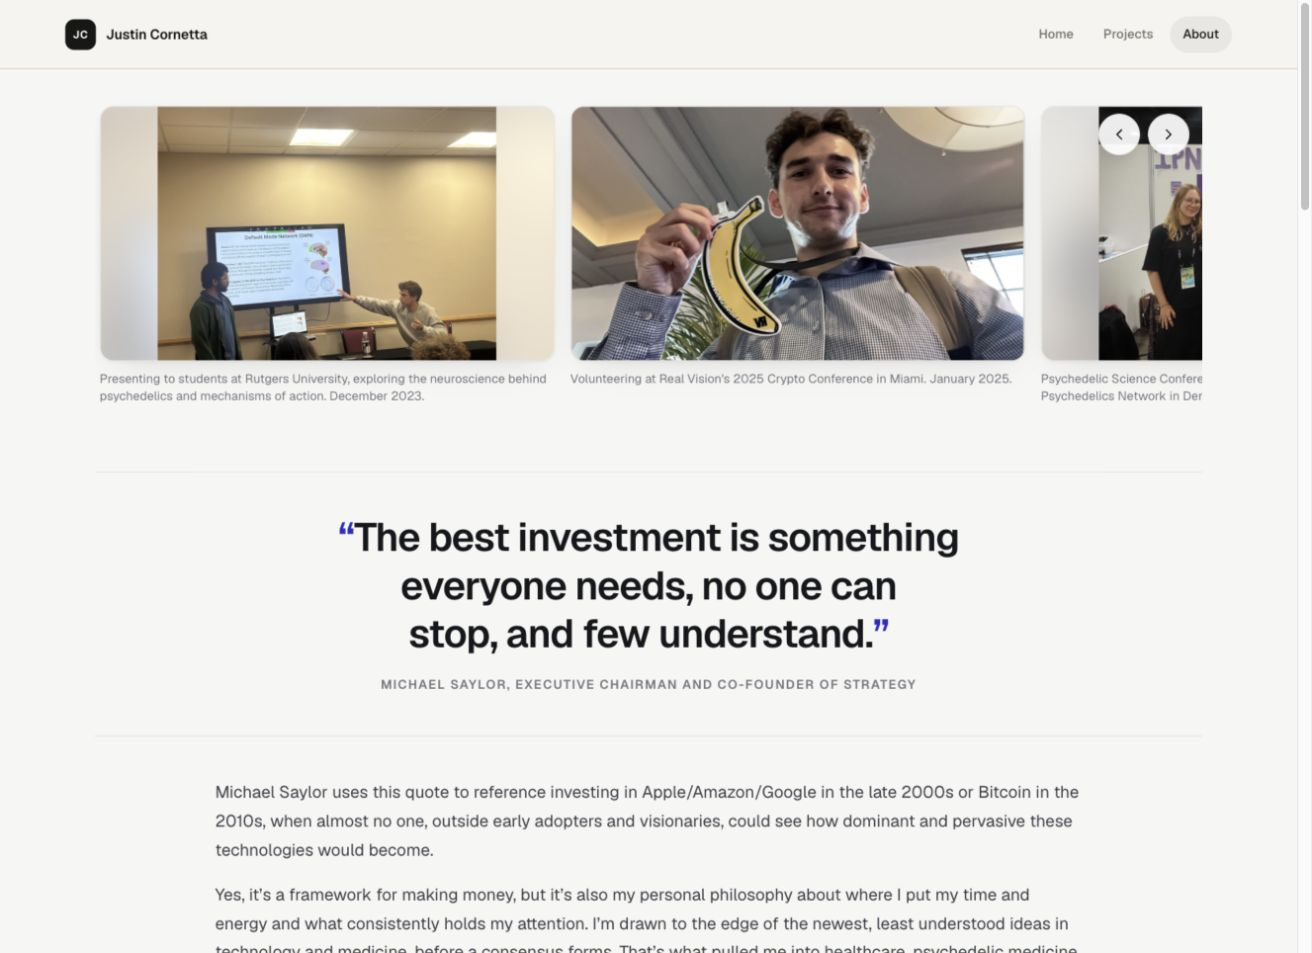
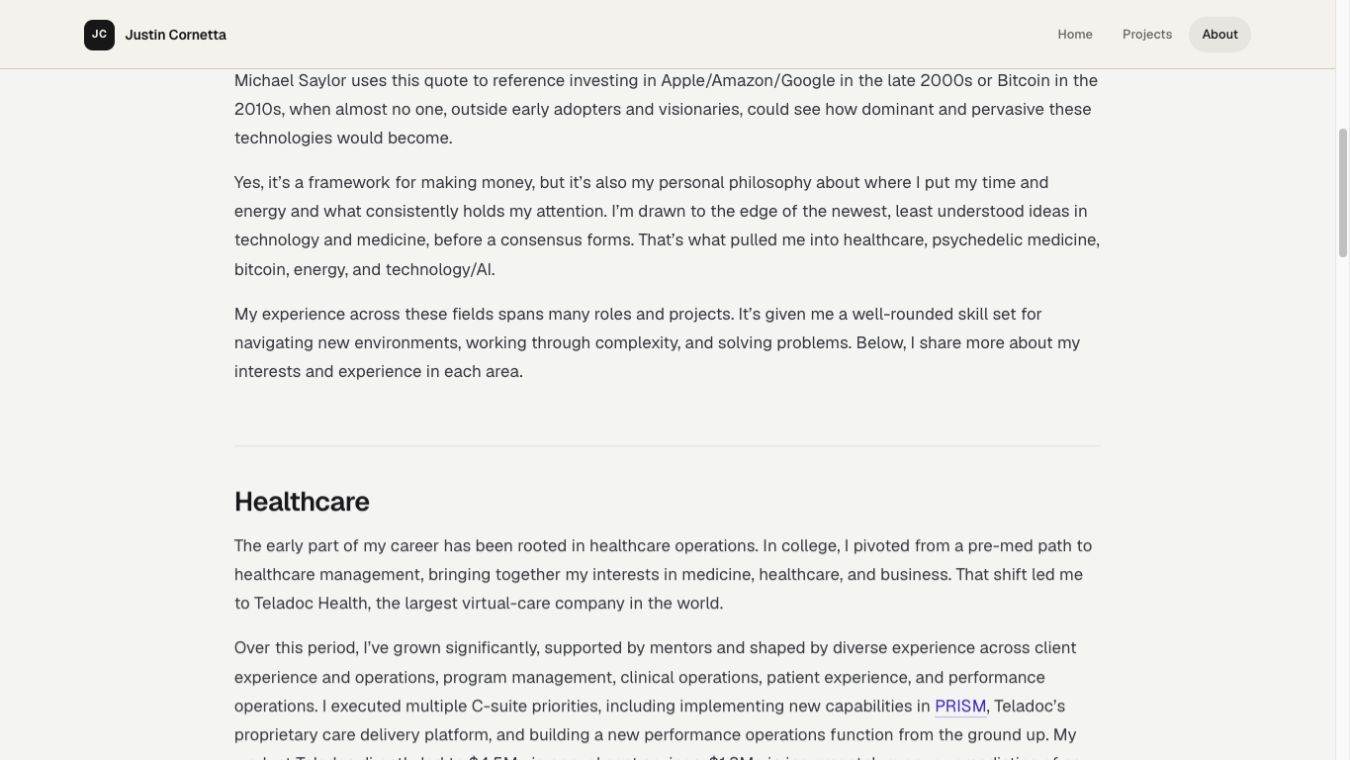
Refine hero and About page

diff --git a/src/app/about/page.tsx b/src/app/about/page.tsx
@@ -1,5 +1,4 @@
 import type { Metadata } from "next";
-import type { HTMLAttributes } from "react";
 import { MDXRemote } from "next-mdx-remote/rsc";
 import { AboutCarousel } from "@/components/about-carousel";
 import { mdxComponents } from "@/components/mdx-components";
@@ -12,15 +11,9 @@ export const metadata: Metadata = {
     "Justin Cornetta on the fields he works across: healthcare operations, psychedelic medicine, and investing in Bitcoin, energy, and AI.",
 };
 
-const aboutMdxComponents = {
-  ...mdxComponents,
-  h2: ({ className, ...props }: HTMLAttributes<HTMLHeadingElement>) => (
-    <h2 className={`reveal reveal-2${className ? ` ${className}` : ""}`} {...props} />
-  ),
-};
-
 export default function AboutPage() {
   const about = getAbout();
+  const [intro, ...topics] = about.body.trim().split(/\n(?=## )/);
 
   return (
     <RevealMotion className="production-page production-page--enhanced motion-stagger">
@@ -41,7 +34,14 @@ export default function AboutPage() {
         </figure>
 
         <div className="prod-case-body prod-prose">
-          <MDXRemote source={about.body} components={aboutMdxComponents} />
+          <section className="prod-about-intro reveal reveal-2">
+            <MDXRemote source={intro} components={mdxComponents} />
+          </section>
+          {topics.map((topic, index) => (
+            <section className="prod-about-topic reveal reveal-2" key={`${index}-${topic.slice(0, 48)}`}>
+              <MDXRemote source={topic} components={mdxComponents} />
+            </section>
+          ))}
         </div>
       </section>
 

diff --git a/src/app/redesign.css b/src/app/redesign.css
@@ -118,6 +118,17 @@ button:focus-visible, a:focus-visible, [tabindex]:focus-visible {
 .hero-scroll-cue svg { width: 16px; height: 16px; margin-top: -2px; animation: scrollCue 1.9s var(--ease) infinite; }
 .hero-scroll-cue:hover { color: var(--accent); }
 
+@media (min-width: 901px) {
+  .hero-section {
+    height: calc(100svh - 124px);
+    min-height: 540px;
+    padding-top: clamp(28px, 4svh, 48px);
+    padding-bottom: clamp(58px, 7svh, 78px);
+  }
+  .hero-grid { height: 100%; }
+  .hero-image { height: 100%; max-height: 650px; }
+}
+
 .about-section { position: relative; z-index: 1; margin-top: -10px; padding: clamp(78px, 8vw, 118px) 0; border-radius: 18px 18px 0 0; }
 .section-kicker, .eyebrow { margin: 0; color: var(--muted); font-size: 11px; font-weight: 700; text-transform: uppercase; letter-spacing: .16em; }
 .about-grid { margin-top: 42px; display: grid; grid-template-columns: minmax(0, .94fr) minmax(0, 1.06fr); align-items: center; gap: clamp(50px, 7vw, 100px); }

diff --git a/src/components/homepage-redesign.tsx b/src/components/homepage-redesign.tsx
@@ -173,7 +173,7 @@ export function HomepageRedesign() {
                 <Image src={heroImage} alt="" fill priority sizes="(min-width: 900px) 44vw, 100vw" />
               </figure>
             </div>
-            <a className="hero-scroll-cue reveal reveal-6" href="#about" aria-label="Scroll to About Me">
+            <a className="hero-scroll-cue" href="#about" aria-label="Scroll to About Me">
               <span>Scroll</span>
               <span className="hero-scroll-cue__line" aria-hidden="true" />
               <svg aria-hidden="true" viewBox="0 0 16 16" fill="none" stroke="currentColor" strokeWidth="1.4" strokeLinecap="round" strokeLinejoin="round">
